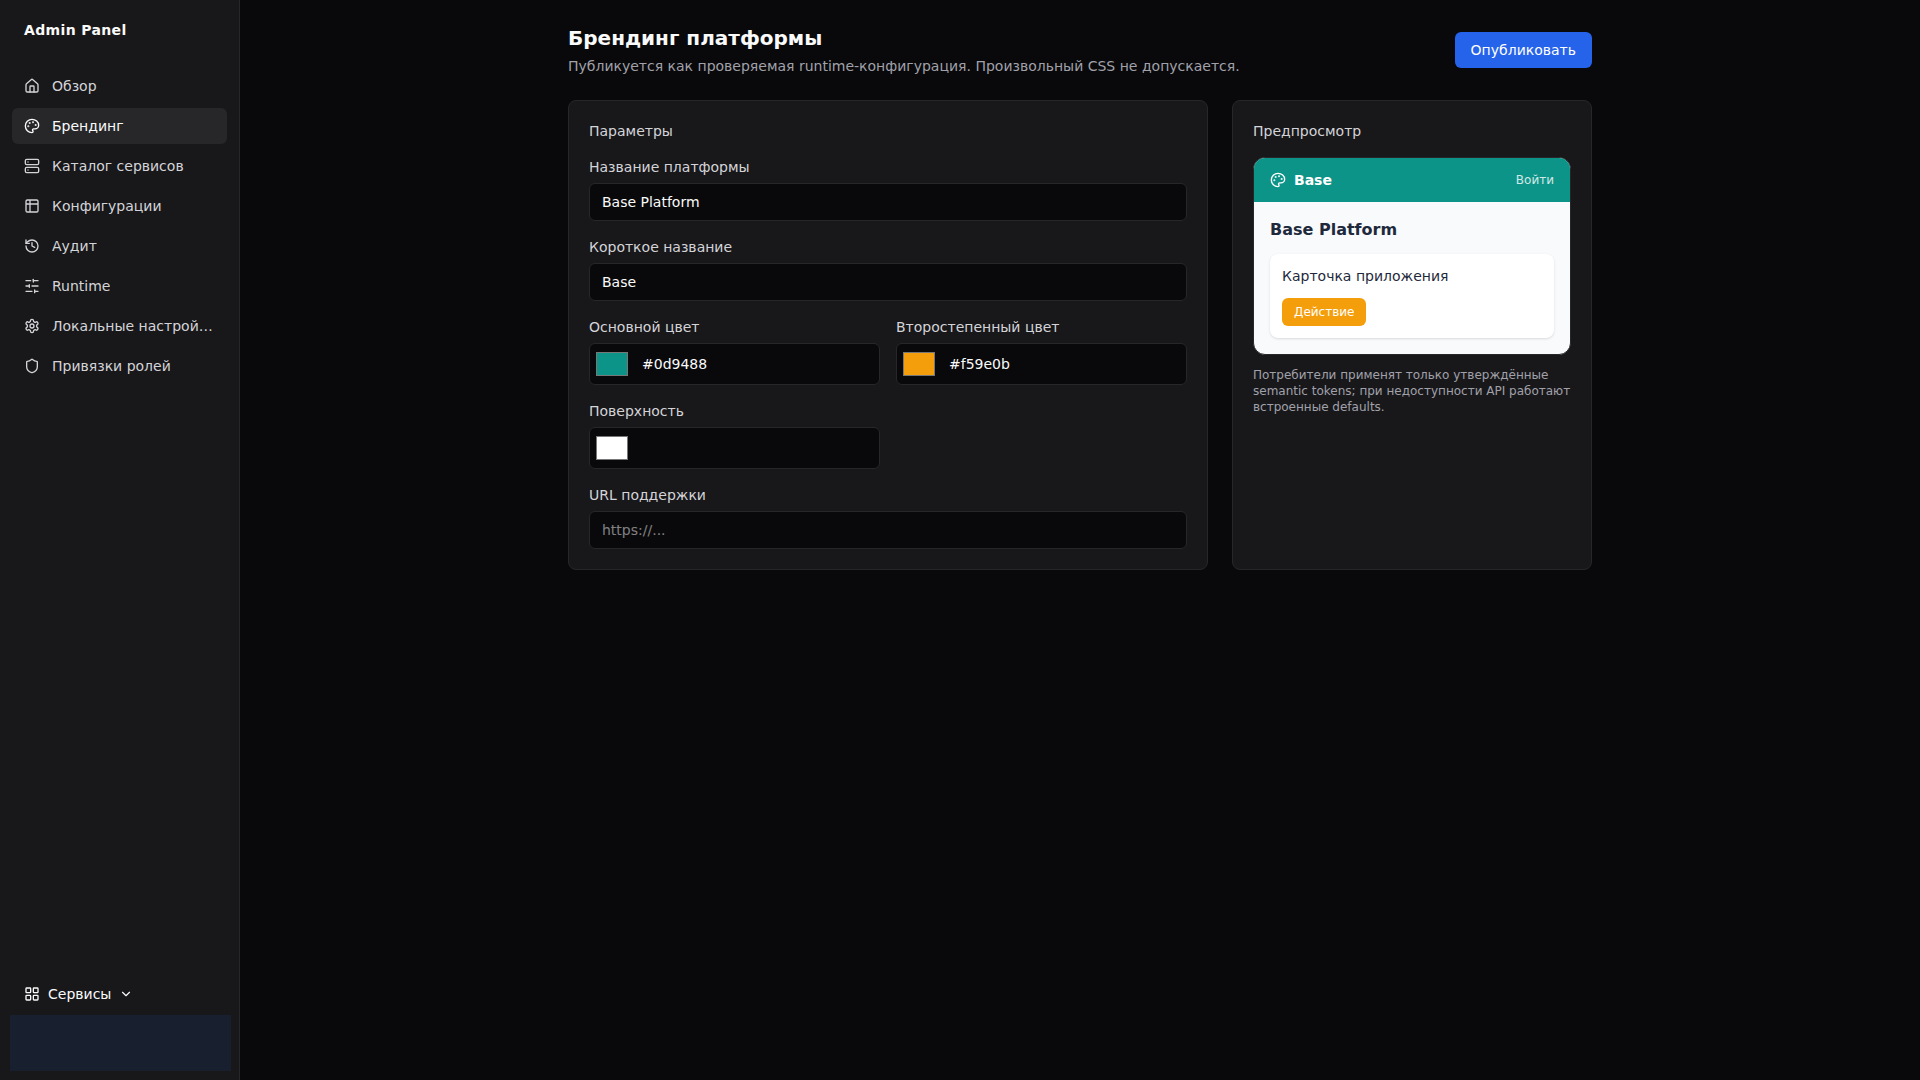
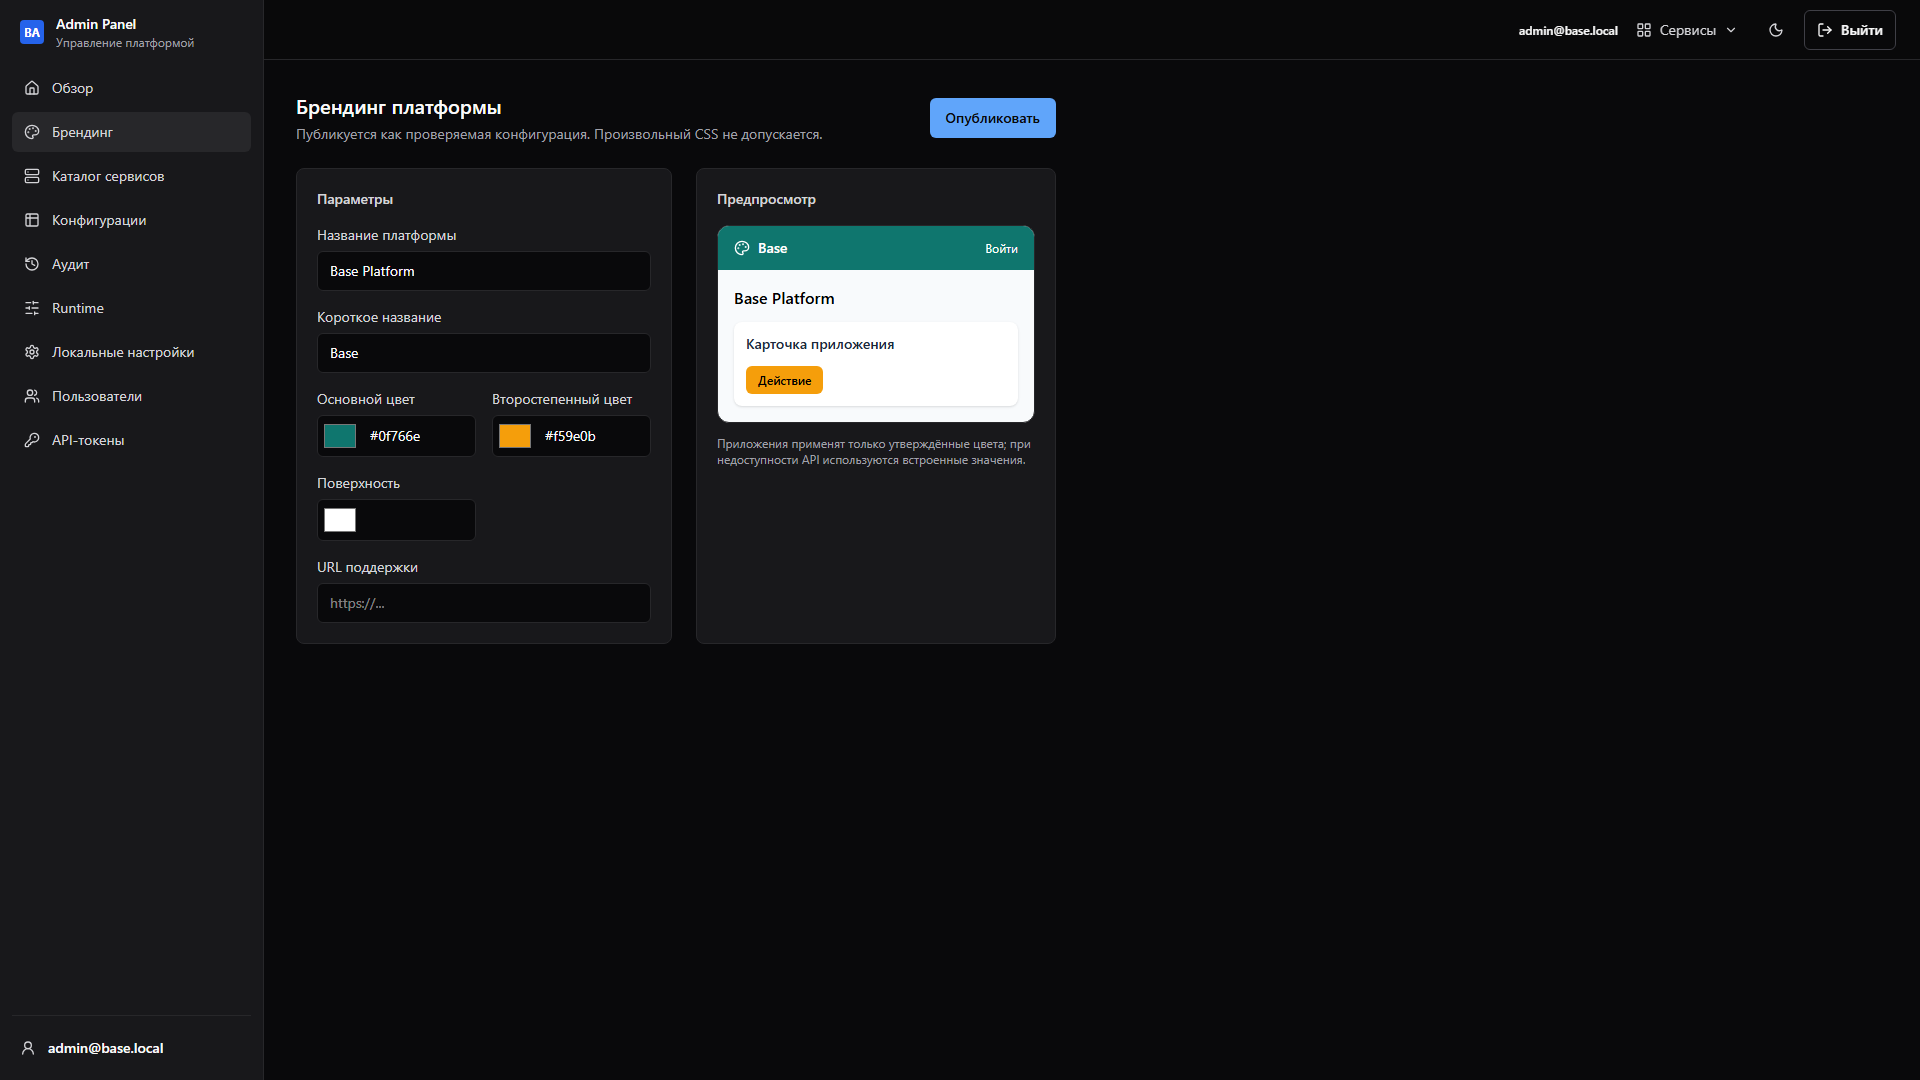
docs(ui): refresh responsive README evidence

diff --git a/frontend/e2e/smoke.spec.ts b/frontend/e2e/smoke.spec.ts
@@ -1,4 +1,6 @@
 import { generateKeyPairSync, sign } from 'node:crypto'
+import { mkdirSync } from 'node:fs'
+import path from 'node:path'
 import { expect, test, type Page, type Route } from '@playwright/test'
 
 // Admin Panel e2e smoke: every shell page renders with mocked admin API.
@@ -309,6 +311,46 @@ async function installApiMocks(
 
 test.beforeEach(async ({ page }) => {
   await installApiMocks(page)
+})
+
+test('captures README interface evidence', async ({ page }) => {
+  test.skip(process.env.UPDATE_README_SCREENSHOTS !== '1')
+
+  const outputDir = path.resolve(process.cwd(), '..', 'docs', 'screenshots')
+  const mobileOutputDir = path.join(outputDir, '375x812')
+  mkdirSync(mobileOutputDir, { recursive: true })
+
+  const capture = async (route: string, outputPath: string) => {
+    await page.goto(route)
+    await expect(page.locator('[data-page-layout]')).toBeVisible()
+    await page.waitForTimeout(1000)
+    expect(
+      await page.evaluate(
+        () => document.documentElement.scrollWidth <= document.documentElement.clientWidth,
+      ),
+    ).toBe(true)
+    await page.screenshot({ path: outputPath, fullPage: true })
+  }
+
+  await page.setViewportSize({ width: 1920, height: 1080 })
+  for (const [route, name] of [
+    ['/', 'overview.png'],
+    ['/services', 'services.png'],
+    ['/services/ci-cd', 'service-detail.png'],
+    ['/branding', 'branding.png'],
+    ['/audit', 'audit.png'],
+  ] as const) {
+    await capture(route, path.join(outputDir, name))
+  }
+
+  await page.setViewportSize({ width: 375, height: 812 })
+  for (const [route, name] of [
+    ['/', 'wide.png'],
+    ['/branding', 'reading.png'],
+    ['/services/ci-cd', 'detail-with-aside.png'],
+  ] as const) {
+    await capture(route, path.join(mobileOutputDir, name))
+  }
 })
 
 test('uses the shared work-area geometry across semantic page modes', async ({ page }, testInfo) => {

diff --git a/docs/plans/2026-09-27-responsive-readme-evidence.md b/docs/plans/2026-09-27-responsive-readme-evidence.md
@@ -1,0 +1,24 @@
+# План: адаптивные UI-скриншоты README
+
+## Цель
+
+Обновить визуальные доказательства Admin Panel после унификации рабочей области:
+desktop-страницы должны использовать общую геометрию shell, а мобильные кадры —
+подтверждать отсутствие горизонтального переполнения для всех семантических
+режимов контента.
+
+## Изменения
+
+- добавить opt-in Playwright-сценарий пересъёмки README на детерминированных моках;
+- переснять существующие страницы README при `1920x1080`;
+- добавить мобильные кадры `wide`, `reading` и `detail-with-aside` при `375x812`;
+- обновить README и проверить локальные ссылки валидатором репозитория.
+
+## Проверка
+
+- `UPDATE_README_SCREENSHOTS=1 pnpm exec playwright test e2e/smoke.spec.ts --grep "captures README" --project=chromium`
+- `pnpm lint`
+- `pnpm typecheck`
+- `pnpm test`
+- `pnpm build`
+- `python scripts/verify_readme.py`

diff --git a/README.md b/README.md
@@ -127,6 +127,15 @@ Integration checks are intentionally bounded: the caller chooses a declared capa
 
 ## Интерфейс
 
+Все кадры ниже пересняты из одного Playwright fixture после проверки общей
+геометрии рабочей области и отсутствия горизонтального переполнения. Desktop
+использует `1920x1080`; три mobile-кадра `375x812` фиксируют режимы `wide`,
+`reading` и `detail-with-aside`.
+
+| Wide | Reading | Detail with aside |
+|---|---|---|
+| ![Обзор платформы, mobile](docs/screenshots/375x812/wide.png) | ![Брендинг, mobile](docs/screenshots/375x812/reading.png) | ![Карточка сервиса, mobile](docs/screenshots/375x812/detail-with-aside.png) |
+
 ### Обзор платформы
 
 ![Обзор платформы](docs/screenshots/overview.png)
